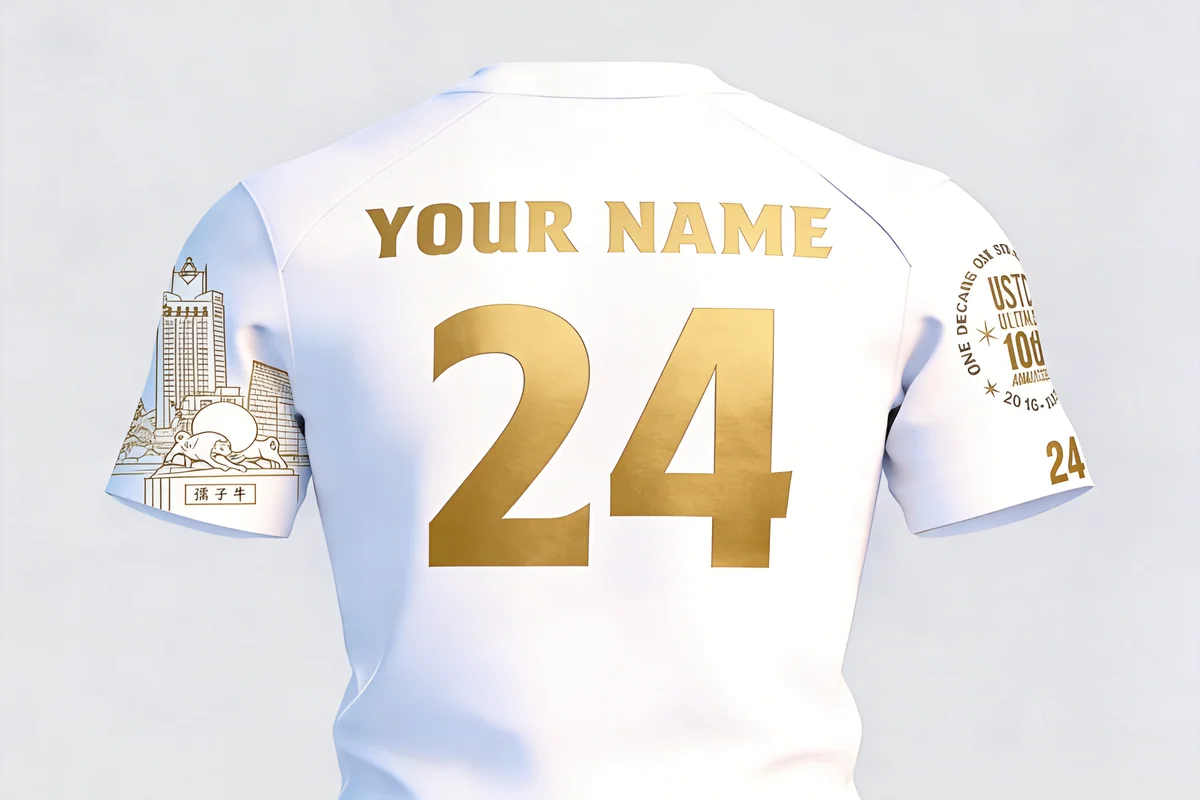
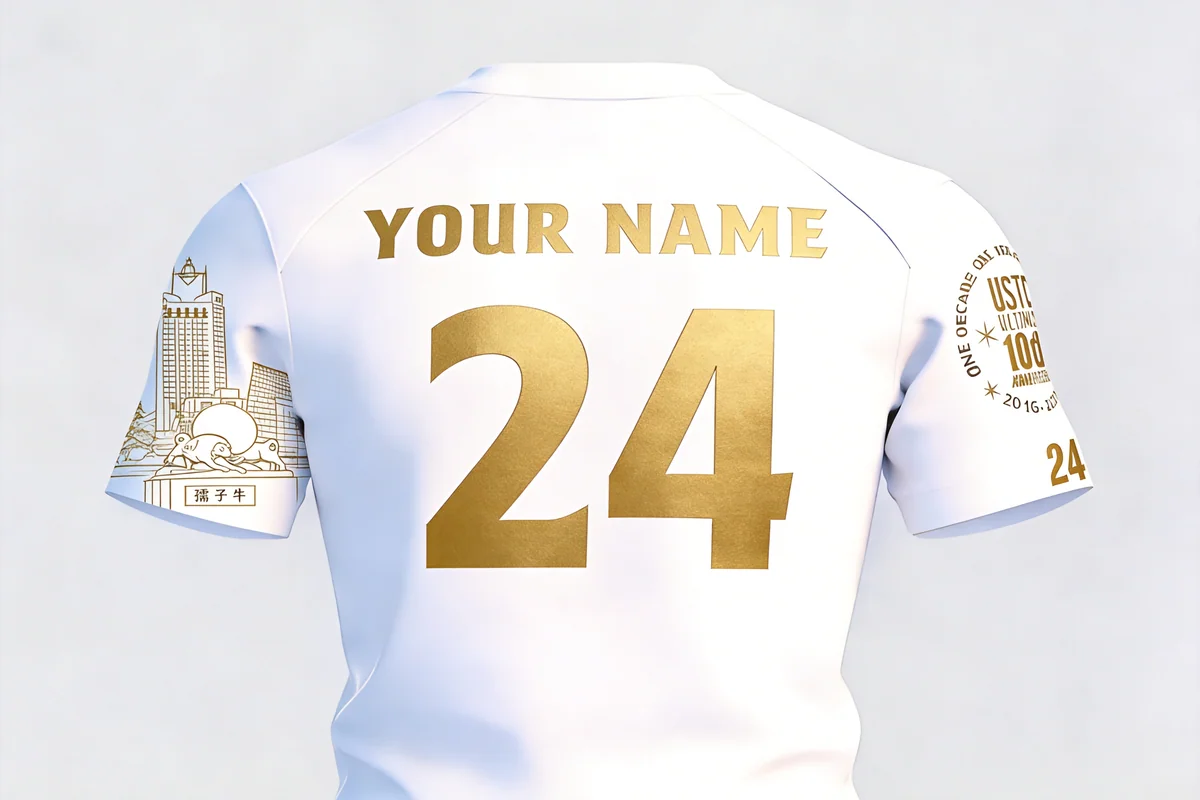
Update asymmetric sleeve asset for easter egg reveal.
Use feiduichen_xiuzi.png in the hidden detail section and refresh the optimized WebP.

diff --git a/lib/story.ts b/lib/story.ts
@@ -188,7 +188,7 @@ export const EASTER_EGG = {
   sleeveAlt: "定稿袖子细节",
   patternAlt: "纹饰线稿",
   patternFile: "outline.png",
-  sleeveFile: "xiuzi_v3.png",
+  sleeveFile: "feiduichen_xiuzi.png",
 } as const;
 
 export const RESERVATION_PRODUCTS = [